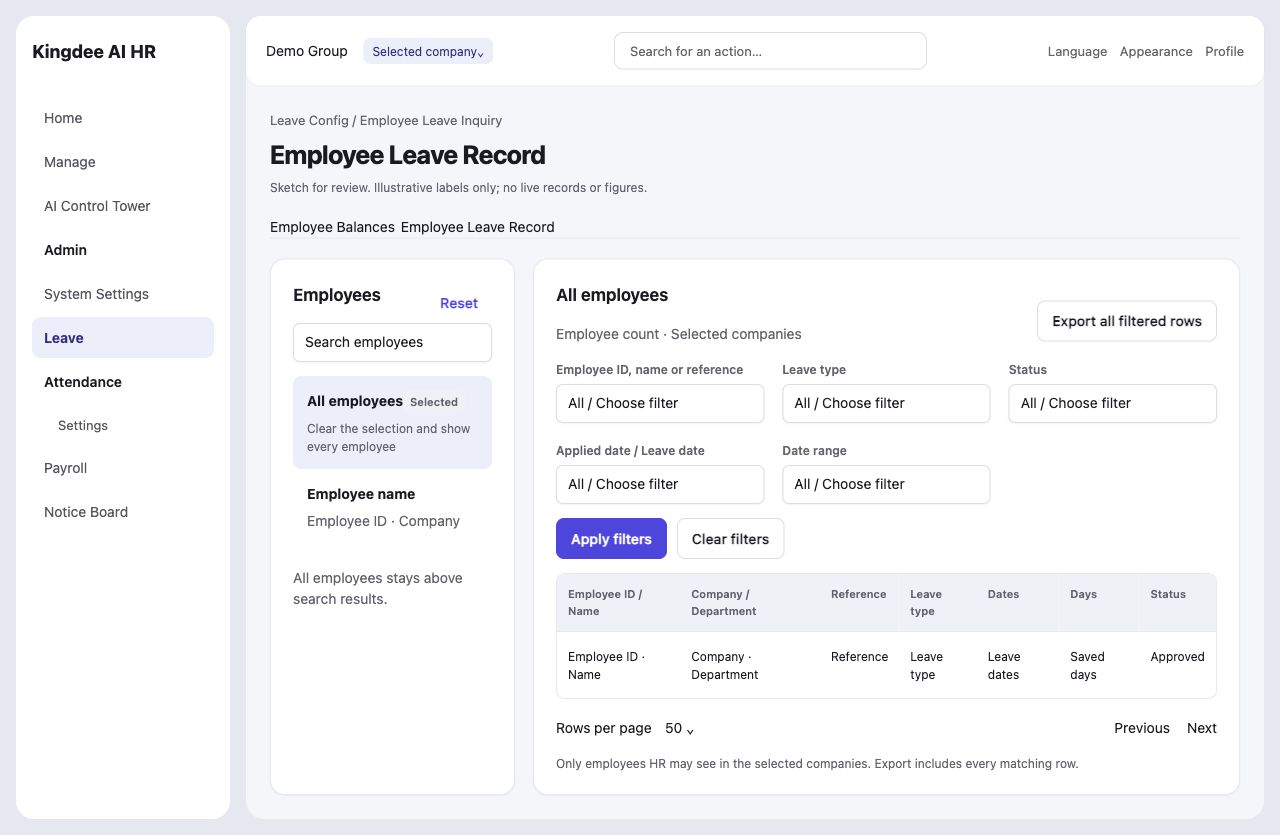
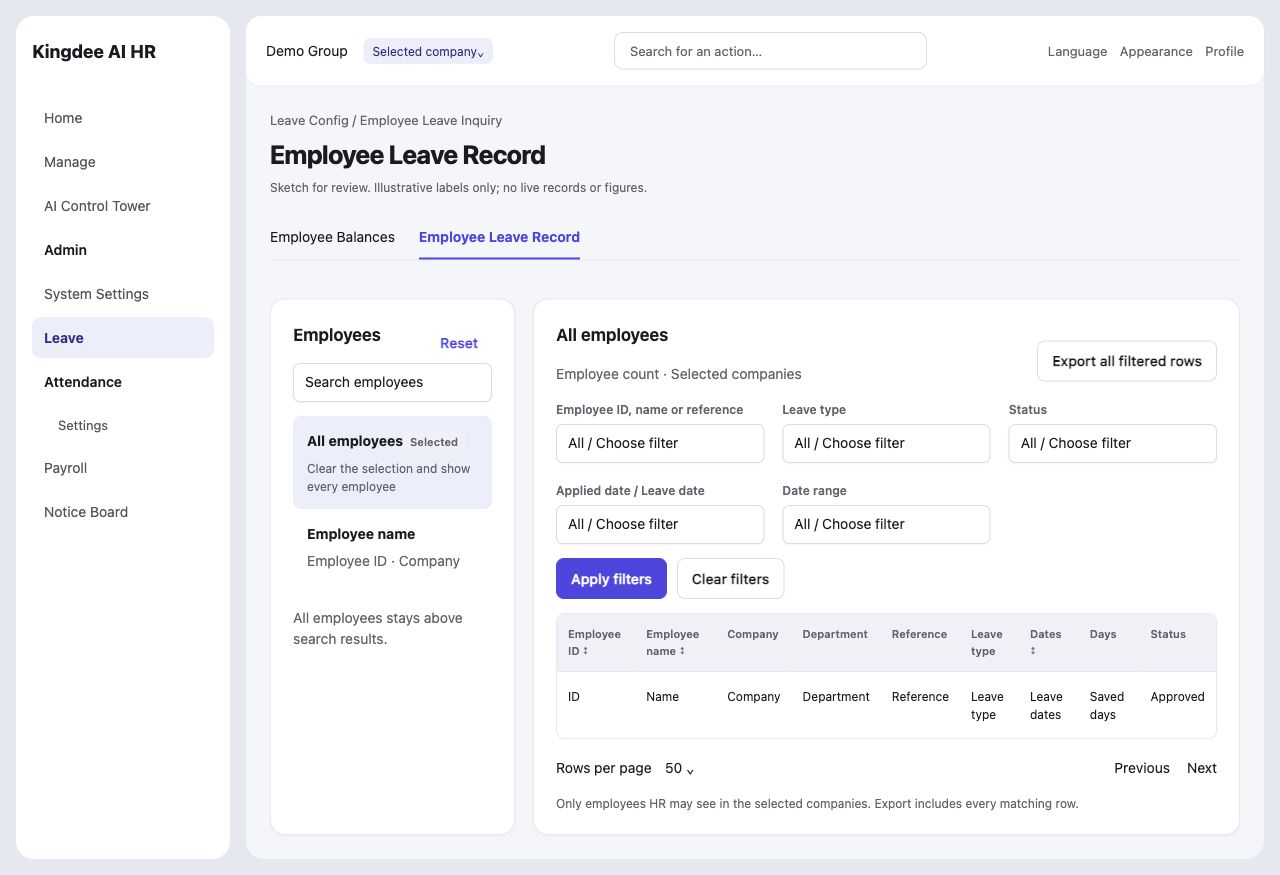
Review new board sketches and complete plan attachments

diff --git a/docs/mockups/board-2026-10-15/23e87eef-records.html b/docs/mockups/board-2026-10-15/23e87eef-records.html
@@ -120,4 +120,4 @@ html[data-preview-mode="light"]{color-scheme:light;
   --shadow-sm: 0 1px 2px rgb(0 0 0 / 0.4);
   --shadow-card: 0 1px 2px rgb(0 0 0 / 0.3), 0 6px 16px -4px rgb(0 0 0 / 0.45);
   --shadow-pop: 0 8px 24px -6px rgb(0 0 0 / 0.6);
-  --shadow-shell: 0 16px 48px -12px rgb(0 0 0 / 0.7);}html[data-preview-mode="light"] .badge.good{background:#d1fae5;color:#065f46}html[data-preview-mode="light"] .badge.warning{background:#fef3c7;color:#92400e}html[data-preview-mode="light"] .badge.bad{background:#ffe4e6;color:#9f1239}html[data-preview-mode="light"] .warningtext{color:#92400e}html[data-preview-mode="dark"] .badge.good{background:#064e3b;color:#a7f3d0}html[data-preview-mode="dark"] .badge.warning{background:#78350f;color:#fde68a}html[data-preview-mode="dark"] .badge.bad{background:#881337;color:#fecdd3}html[data-preview-mode="dark"] .warningtext{color:#fde68a} .input{height:auto;min-height:39px}</style><body><div class="shell"><aside class="sidebar"><div class="brand">Kingdee AI HR</div><span class="nav ">Home</span><span class="nav ">Manage</span><span class="nav ">AI Control Tower</span><span class="nav parent">Admin</span><span class="nav ">System Settings</span><span class="nav active">Leave</span><span class="nav parent">Attendance</span><span class="nav child">Settings</span><span class="nav">Payroll</span><span class="nav">Notice Board</span></aside><main class="main"><div class="topbar"><span>Demo Group <span class="chip" style="margin-left:12px">Selected company⌄</span></span><span class="search">Search for an action…</span><span class="context">Language　Appearance　Profile</span></div><div class="context">Leave Config / Employee Leave Inquiry</div><h1>Employee Leave Record</h1><div class="sketch">Sketch for review. Illustrative labels only; no live records or figures.</div><div class="tabs"><span class="">Employee Balances</span><span class="active">Employee Leave Record</span></div><div class="grid" style="grid-template-columns:245px minmax(0,1fr)"><section class="surface"><div class="inline spread"><h2>Employees</h2><button class="subtle">Reset</button></div><div class="input">Search employees</div><div style="background:var(--accent);padding:14px;border-radius:8px;margin-top:14px"><strong>All employees</strong><span class="badge">Selected</span><p style="font-size:12px;margin-bottom:0">Clear the selection and show every employee</p></div><div style="padding:14px"><strong>Employee name</strong><p>Employee ID · Company</p></div><p>All employees stays above search results.</p></section><section class="surface"><div class="inline spread"><div><h2>All employees</h2><p>Employee count · Selected companies</p></div><button>Export all filtered rows</button></div><div class="grid cols3"><label class="field"><span>Employee ID, name or reference</span><div class="input">All / Choose filter</div></label><label class="field"><span>Leave type</span><div class="input">All / Choose filter</div></label><label class="field"><span>Status</span><div class="input">All / Choose filter</div></label><label class="field"><span>Applied date / Leave date</span><div class="input">All / Choose filter</div></label><label class="field"><span>Date range</span><div class="input">All / Choose filter</div></label></div><div class="actions" style="margin:14px 0"><button class="primary">Apply filters</button><button>Clear filters</button></div><div class="tablewrap"><table><thead><tr><th>Employee ID / Name</th><th>Company / Department</th><th>Reference</th><th>Leave type</th><th>Dates</th><th>Days</th><th>Status</th></tr></thead><tbody><tr><td>Employee ID · Name</td><td>Company · Department</td><td>Reference</td><td>Leave type</td><td>Leave dates</td><td>Saved days</td><td>Approved</td></tr></tbody></table></div><div class="inline spread" style="margin-top:18px"><span>Rows per page　50 ⌄</span><span>Previous　 Next</span></div><p style="font-size:12px;margin:16px 0 0">Only employees HR may see in the selected companies. Export includes every matching row.</p></section></div></main></div></body></html>
+  --shadow-shell: 0 16px 48px -12px rgb(0 0 0 / 0.7);}html[data-preview-mode="light"] .badge.good{background:#d1fae5;color:#065f46}html[data-preview-mode="light"] .badge.warning{background:#fef3c7;color:#92400e}html[data-preview-mode="light"] .badge.bad{background:#ffe4e6;color:#9f1239}html[data-preview-mode="light"] .warningtext{color:#92400e}html[data-preview-mode="dark"] .badge.good{background:#064e3b;color:#a7f3d0}html[data-preview-mode="dark"] .badge.warning{background:#78350f;color:#fde68a}html[data-preview-mode="dark"] .badge.bad{background:#881337;color:#fecdd3}html[data-preview-mode="dark"] .warningtext{color:#fde68a} .input{height:auto;min-height:39px} .tabs{display:flex;gap:24px;border-bottom:1px solid var(--border);margin:18px 0}.tabs span{padding:10px 0}.tabs span.active{border-bottom:2px solid var(--primary);color:var(--primary);font-weight:650}</style><body><div class="shell"><aside class="sidebar"><div class="brand">Kingdee AI HR</div><span class="nav ">Home</span><span class="nav ">Manage</span><span class="nav ">AI Control Tower</span><span class="nav parent">Admin</span><span class="nav ">System Settings</span><span class="nav active">Leave</span><span class="nav parent">Attendance</span><span class="nav child">Settings</span><span class="nav">Payroll</span><span class="nav">Notice Board</span></aside><main class="main"><div class="topbar"><span>Demo Group <span class="chip" style="margin-left:12px">Selected company⌄</span></span><span class="search">Search for an action…</span><span class="context">Language　Appearance　Profile</span></div><div class="context">Leave Config / Employee Leave Inquiry</div><h1>Employee Leave Record</h1><div class="sketch">Sketch for review. Illustrative labels only; no live records or figures.</div><div class="tabs"><span class="">Employee Balances</span><span class="active">Employee Leave Record</span></div><div class="grid" style="grid-template-columns:245px minmax(0,1fr)"><section class="surface"><div class="inline spread"><h2>Employees</h2><button class="subtle">Reset</button></div><div class="input">Search employees</div><div style="background:var(--accent);padding:14px;border-radius:8px;margin-top:14px"><strong>All employees</strong><span class="badge">Selected</span><p style="font-size:12px;margin-bottom:0">Clear the selection and show every employee</p></div><div style="padding:14px"><strong>Employee name</strong><p>Employee ID · Company</p></div><p>All employees stays above search results.</p></section><section class="surface"><div class="inline spread"><div><h2>All employees</h2><p>Employee count · Selected companies</p></div><button>Export all filtered rows</button></div><div class="grid cols3"><label class="field"><span>Employee ID, name or reference</span><div class="input">All / Choose filter</div></label><label class="field"><span>Leave type</span><div class="input">All / Choose filter</div></label><label class="field"><span>Status</span><div class="input">All / Choose filter</div></label><label class="field"><span>Applied date / Leave date</span><div class="input">All / Choose filter</div></label><label class="field"><span>Date range</span><div class="input">All / Choose filter</div></label></div><div class="actions" style="margin:14px 0"><button class="primary">Apply filters</button><button>Clear filters</button></div><div class="tablewrap"><table><thead><tr><th>Employee ID ↕</th><th>Employee name ↕</th><th>Company</th><th>Department</th><th>Reference</th><th>Leave type</th><th>Dates ↕</th><th>Days</th><th>Status</th></tr></thead><tbody><tr><td>ID</td><td>Name</td><td>Company</td><td>Department</td><td>Reference</td><td>Leave type</td><td>Leave dates</td><td>Saved days</td><td>Approved</td></tr></tbody></table></div><div class="inline spread" style="margin-top:18px"><span>Rows per page　50 ⌄</span><span>Previous　 Next</span></div><p style="font-size:12px;margin:16px 0 0">Only employees HR may see in the selected companies. Export includes every matching row.</p></section></div></main></div></body></html>

diff --git a/docs/mockups/board-2026-10-15/23e87eef-balances.html b/docs/mockups/board-2026-10-15/23e87eef-balances.html
@@ -120,4 +120,4 @@ html[data-preview-mode="light"]{color-scheme:light;
   --shadow-sm: 0 1px 2px rgb(0 0 0 / 0.4);
   --shadow-card: 0 1px 2px rgb(0 0 0 / 0.3), 0 6px 16px -4px rgb(0 0 0 / 0.45);
   --shadow-pop: 0 8px 24px -6px rgb(0 0 0 / 0.6);
-  --shadow-shell: 0 16px 48px -12px rgb(0 0 0 / 0.7);}html[data-preview-mode="light"] .badge.good{background:#d1fae5;color:#065f46}html[data-preview-mode="light"] .badge.warning{background:#fef3c7;color:#92400e}html[data-preview-mode="light"] .badge.bad{background:#ffe4e6;color:#9f1239}html[data-preview-mode="light"] .warningtext{color:#92400e}html[data-preview-mode="dark"] .badge.good{background:#064e3b;color:#a7f3d0}html[data-preview-mode="dark"] .badge.warning{background:#78350f;color:#fde68a}html[data-preview-mode="dark"] .badge.bad{background:#881337;color:#fecdd3}html[data-preview-mode="dark"] .warningtext{color:#fde68a} .input{height:auto;min-height:39px}</style><body><div class="shell"><aside class="sidebar"><div class="brand">Kingdee AI HR</div><span class="nav ">Home</span><span class="nav ">Manage</span><span class="nav ">AI Control Tower</span><span class="nav parent">Admin</span><span class="nav ">System Settings</span><span class="nav active">Leave</span><span class="nav parent">Attendance</span><span class="nav child">Settings</span><span class="nav">Payroll</span><span class="nav">Notice Board</span></aside><main class="main"><div class="topbar"><span>Demo Group <span class="chip" style="margin-left:12px">Selected company⌄</span></span><span class="search">Search for an action…</span><span class="context">Language　Appearance　Profile</span></div><div class="context">Leave Config / Employee Leave Inquiry</div><h1>Employee Balances</h1><div class="sketch">Sketch for review. Illustrative labels only; no live records or figures.</div><div class="tabs"><span class="active">Employee Balances</span><span class="">Employee Leave Record</span></div><div class="grid" style="grid-template-columns:245px minmax(0,1fr)"><section class="surface"><div class="inline spread"><h2>Employees</h2><button class="subtle">Reset</button></div><div class="input">Search employees</div><div style="background:var(--accent);padding:14px;border-radius:8px;margin-top:14px"><strong>All employees</strong><span class="badge">Selected</span><p style="font-size:12px;margin-bottom:0">Clear the selection and show every employee</p></div><div style="padding:14px"><strong>Employee name</strong><p>Employee ID · Company</p></div><p>All employees stays above search results.</p></section><section class="surface"><div class="inline spread"><div><h2>All employees</h2><p>Employee count · Selected companies</p></div><button>Export all filtered rows</button></div><div class="grid cols3"><label class="field"><span>Leave type</span><div class="input">All / Choose filter</div></label><label class="field"><span>Department</span><div class="input">All / Choose filter</div></label><label class="field"><span>As at date</span><div class="input">All / Choose filter</div></label></div><div class="actions" style="margin:14px 0"><button class="primary">Apply filters</button><button>Clear filters</button></div><div class="tablewrap"><table><thead><tr><th>Employee ID / Name</th><th>Company / Department</th><th>Leave type</th><th>Entitlement</th><th>B/F</th><th>Taken</th><th>Pending</th><th>Balance</th></tr></thead><tbody><tr><td>Employee ID · Name</td><td>Company · Department</td><td>Leave type</td><td>—</td><td>—</td><td>—</td><td>—</td><td>—</td></tr></tbody></table></div><div class="inline spread" style="margin-top:18px"><span>Rows per page　50 ⌄</span><span>Previous　 Next</span></div><p style="font-size:12px;margin:16px 0 0">Only employees HR may see in the selected companies. Export includes every matching row.</p></section></div></main></div></body></html>
+  --shadow-shell: 0 16px 48px -12px rgb(0 0 0 / 0.7);}html[data-preview-mode="light"] .badge.good{background:#d1fae5;color:#065f46}html[data-preview-mode="light"] .badge.warning{background:#fef3c7;color:#92400e}html[data-preview-mode="light"] .badge.bad{background:#ffe4e6;color:#9f1239}html[data-preview-mode="light"] .warningtext{color:#92400e}html[data-preview-mode="dark"] .badge.good{background:#064e3b;color:#a7f3d0}html[data-preview-mode="dark"] .badge.warning{background:#78350f;color:#fde68a}html[data-preview-mode="dark"] .badge.bad{background:#881337;color:#fecdd3}html[data-preview-mode="dark"] .warningtext{color:#fde68a} .input{height:auto;min-height:39px} .tabs{display:flex;gap:24px;border-bottom:1px solid var(--border);margin:18px 0}.tabs span{padding:10px 0}.tabs span.active{border-bottom:2px solid var(--primary);color:var(--primary);font-weight:650} .tablewrap th{padding:9px 6px;font-size:10px}.tablewrap td{padding:12px 6px;font-size:12px}</style><body><div class="shell"><aside class="sidebar"><div class="brand">Kingdee AI HR</div><span class="nav ">Home</span><span class="nav ">Manage</span><span class="nav ">AI Control Tower</span><span class="nav parent">Admin</span><span class="nav ">System Settings</span><span class="nav active">Leave</span><span class="nav parent">Attendance</span><span class="nav child">Settings</span><span class="nav">Payroll</span><span class="nav">Notice Board</span></aside><main class="main"><div class="topbar"><span>Demo Group <span class="chip" style="margin-left:12px">Selected company⌄</span></span><span class="search">Search for an action…</span><span class="context">Language　Appearance　Profile</span></div><div class="context">Leave Config / Employee Leave Inquiry</div><h1>Employee Balances</h1><div class="sketch">Sketch for review. Illustrative labels only; no live records or figures.</div><div class="tabs"><span class="active">Employee Balances</span><span class="">Employee Leave Record</span></div><div class="grid" style="grid-template-columns:245px minmax(0,1fr)"><section class="surface"><div class="inline spread"><h2>Employees</h2><button class="subtle">Reset</button></div><div class="input">Search employees</div><div style="background:var(--accent);padding:14px;border-radius:8px;margin-top:14px"><strong>All employees</strong><span class="badge">Selected</span><p style="font-size:12px;margin-bottom:0">Clear the selection and show every employee</p></div><div style="padding:14px"><strong>Employee name</strong><p>Employee ID · Company</p></div><p>All employees stays above search results.</p></section><section class="surface"><div class="inline spread"><div><h2>All employees</h2><p>Employee count · Selected companies</p></div><button>Export all filtered rows</button></div><div class="grid cols3"><label class="field"><span>Leave type</span><div class="input">All / Choose filter</div></label><label class="field"><span>Department</span><div class="input">All / Choose filter</div></label><label class="field"><span>As at date</span><div class="input">All / Choose filter</div></label></div><div class="actions" style="margin:14px 0"><button class="primary">Apply filters</button><button>Clear filters</button></div><div class="tablewrap"><table><thead><tr><th>Employee ID ↕</th><th>Employee name ↕</th><th>Company</th><th>Department</th><th>Leave type</th><th>Entitlement</th><th>B/F</th><th>Taken</th><th>Pending</th><th>Balance</th></tr></thead><tbody><tr><td>ID</td><td>Name</td><td>Company</td><td>Department</td><td>Leave type</td><td>—</td><td>—</td><td>—</td><td>—</td><td>—</td></tr></tbody></table></div><div class="inline spread" style="margin-top:18px"><span>Rows per page　50 ⌄</span><span>Previous　 Next</span></div><p style="font-size:12px;margin:16px 0 0">Only employees HR may see in the selected companies. Export includes every matching row.</p></section></div></main></div></body></html>
